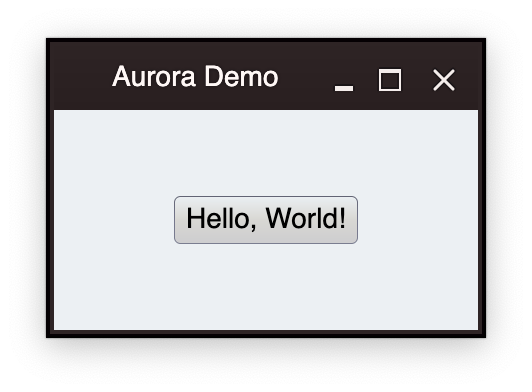
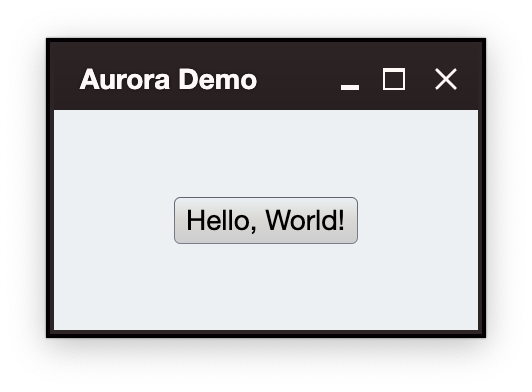
Update window documentation

diff --git a/demo/src/desktopMain/kotlin/org/pushingpixels/aurora/demo/HelloWorld.kt b/demo/src/desktopMain/kotlin/org/pushingpixels/aurora/demo/HelloWorld.kt
@@ -1,0 +1,65 @@
+/*
+ * Copyright 2020-2022 Aurora, Kirill Grouchnikov
+ *
+ * Licensed under the Apache License, Version 2.0 (the "License");
+ * you may not use this file except in compliance with the License.
+ * You may obtain a copy of the License at
+ *
+ *      http://www.apache.org/licenses/LICENSE-2.0
+ *
+ * Unless required by applicable law or agreed to in writing, software
+ * distributed under the License is distributed on an "AS IS" BASIS,
+ * WITHOUT WARRANTIES OR CONDITIONS OF ANY KIND, either express or implied.
+ * See the License for the specific language governing permissions and
+ * limitations under the License.
+ */
+package org.pushingpixels.aurora.demo
+
+import androidx.compose.foundation.layout.*
+import androidx.compose.runtime.*
+import androidx.compose.ui.Alignment
+import androidx.compose.ui.Modifier
+import androidx.compose.ui.unit.DpSize
+import androidx.compose.ui.unit.dp
+import androidx.compose.ui.window.WindowPlacement
+import androidx.compose.ui.window.WindowPosition
+import androidx.compose.ui.window.rememberWindowState
+import org.pushingpixels.aurora.component.model.Command
+import org.pushingpixels.aurora.component.projection.CommandButtonProjection
+import org.pushingpixels.aurora.demo.svg.material.*
+import org.pushingpixels.aurora.theming.*
+import org.pushingpixels.aurora.window.AuroraWindow
+import org.pushingpixels.aurora.window.AuroraWindowTitlePaneConfigurations
+import org.pushingpixels.aurora.window.auroraApplication
+import java.util.*
+
+fun main() = auroraApplication {
+    val state = rememberWindowState(
+        placement = WindowPlacement.Floating,
+        position = WindowPosition.Aligned(Alignment.Center),
+        size = DpSize(220.dp, 150.dp)
+    )
+
+    AuroraWindow(
+        skin = marinerSkin(),
+        title = "Aurora Demo",
+        state = state,
+        windowTitlePaneConfiguration = AuroraWindowTitlePaneConfigurations.AuroraPlain(),
+        onCloseRequest = ::exitApplication
+    ) {
+        var text by remember { mutableStateOf("Hello, World!") }
+
+        Row(
+            horizontalArrangement = Arrangement.Center,
+            verticalAlignment = Alignment.CenterVertically,
+            modifier = Modifier.fillMaxSize().auroraBackground()
+        ) {
+            CommandButtonProjection(
+                contentModel = Command(
+                    text = text,
+                    action = { text = "Hello, Desktop!" }
+                )
+            ).project()
+        }
+    }
+}

diff --git a/docs/window/Window.md b/docs/window/Window.md
@@ -7,6 +7,7 @@ Every Aurora-powered window is created using the `AuroraWindow` API. The signatu
 | **skin** | AuroraSkinDefinition | [Skin](../theming/skins/overview.md) for the window content. Use `remember { mutableStateOf(...) }` to dynamically update the skin at runtime, which will then cause recomposition of the window content based on the new skin. |
 | **iconFilterStrategy** | IconFilterStrategy | Icon filter strategy to apply on the window icon, if present |
 | **menuCommands** | CommandGroup | If present, is used to create the menu bar of this window |
+| **windowTitlePaneConfiguration** | AuroraWindowTitlePaneConfiguration | The configuration of the window title pane |
 
 ### Setting window skin
 
@@ -104,7 +105,7 @@ And the code skeleton:
 AuroraWindow(
   skin = skin,
   title = "Aurora skeleton",
-  undecorated = true,
+  windowTitlePaneConfiguration = AuroraWindowTitlePaneConfigurations.AuroraPlain(),
   ...
   menuCommands = CommandGroup(
     commands = listOf(

diff --git a/docs/component/AnotherSample.md b/docs/component/AnotherSample.md
@@ -34,7 +34,7 @@ fun main() = auroraApplication {
       icon = radiance_menu(),
       iconFilterStrategy = IconFilterStrategy.ThemedFollowText,
       state = state,
-      undecorated = true,
+      windowTitlePaneConfiguration = AuroraWindowTitlePaneConfigurations.AuroraPlain(),
       onCloseRequest = ::exitApplication,
   ) {
       // Here we'll have our data models

diff --git a/docs/component/Sample.md b/docs/component/Sample.md
@@ -24,7 +24,7 @@ fun main() = auroraApplication {
       icon = radiance_menu(),
       iconFilterStrategy = IconFilterStrategy.ThemedFollowText,
       state = state,
-      undecorated = true,
+      windowTitlePaneConfiguration = AuroraWindowTitlePaneConfigurations.AuroraPlain(),
       onCloseRequest = ::exitApplication,
   ) {
       // Here we'll have our data models

diff --git a/docs/window/HelloWorld.md b/docs/window/HelloWorld.md
@@ -38,7 +38,7 @@ fun main() = auroraApplication {
         skin = marinerSkin(),
         title = "Aurora Demo",
         state = state,
-        undecorated = true,
+        windowTitlePaneConfiguration = AuroraWindowTitlePaneConfigurations.AuroraPlain(),
         onCloseRequest = ::exitApplication
     ) {
         var text by remember { mutableStateOf("Hello, World!") }

diff --git a/docs/window/RadianceInterop.md b/docs/window/RadianceInterop.md
@@ -7,7 +7,7 @@ To start, add a dependency on the latest Radiance binaries:
 ```kotlin
 dependencies {
   ...
-  implementation("org.pushing-pixels:radiance-theming:5.0.0")
+  implementation("org.pushing-pixels:radiance-theming:6.0.1")
 }
 ```
 
